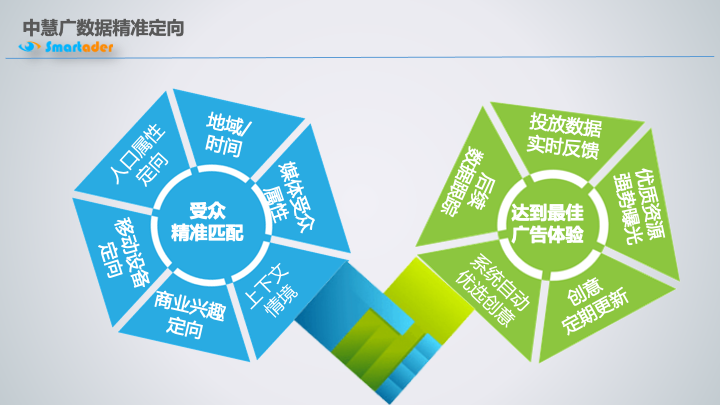
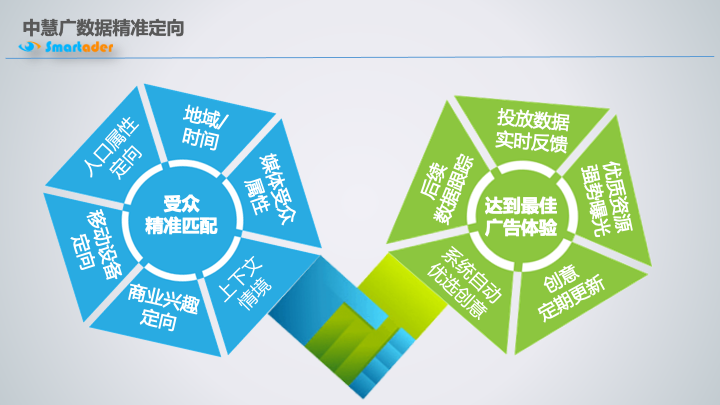
修改样式

Changed region(s): [[0.0611, 0.2074, 0.9472, 1.0]]

diff --git a/src/main/resources/templates/login.html b/src/main/resources/templates/login.html
@@ -33,7 +33,7 @@
 
     <form th:action="@{/user/login}"  th:method="post" class="form-signin">
         <div class="form-signin-heading text-center">
-            <h1 class="sign-title">广告商登录</h1>
+            <h1 class="sign-title">用户登录</h1>
         </div>
         <div class="login-wrap">
             <p th:if="${msg!=null}" th:text="|${msg}!|" style="color:#FF6C60;">登录错误</p>
@@ -46,12 +46,12 @@
         </div>
     </form>
 </div>
-<div>
-    <img src="/images/bg1.png" style="width:100%;">
-    <img src="/images/bg2.png" style="width:100%;">
-    <img src="/images/bg3.png" style="width:100%;">
-    <img src="/images/bg4.png" style="width:100%;">
-    <img src="/images/bg5.png" style="width:100%;">
+<div style="display: block;text-align: center;">
+    <img src="/images/bg1.png" style="width:80%;">
+    <img src="/images/bg2.png" style="width:80%;">
+    <img src="/images/bg3.png" style="width:80%;">
+    <img src="/images/bg4.png" style="width:80%;">
+    <img src="/images/bg5.png" style="width:80%;">
 </div>
 <footer style="background:none;text-align: center;border-top: none;color:#000000;font-size: 14px;">
     Shenzhen Zhonghuiguang Cultural Communication Co., Ltd.

diff --git a/src/main/resources/static/css/style.css b/src/main/resources/static/css/style.css
@@ -1091,7 +1091,6 @@ footer.sticky-footer {
     width: 100%;
     z-index: 99;
     text-align: right;
-    padding-right: 220px;
 }
 
 .container footer {

diff --git a/src/test/java/com/dsp/ad/Test.java b/src/test/java/com/dsp/ad/Test.java
@@ -9,6 +9,6 @@ import com.dsp.ad.util.MD5Util;
 public class Test {
 
     public static void main(String[] args) {
-        System.out.println(MD5Util.md5("juxiao1008"));
+        System.out.println(MD5Util.md5("zhonghg2024"));
     }
 }
